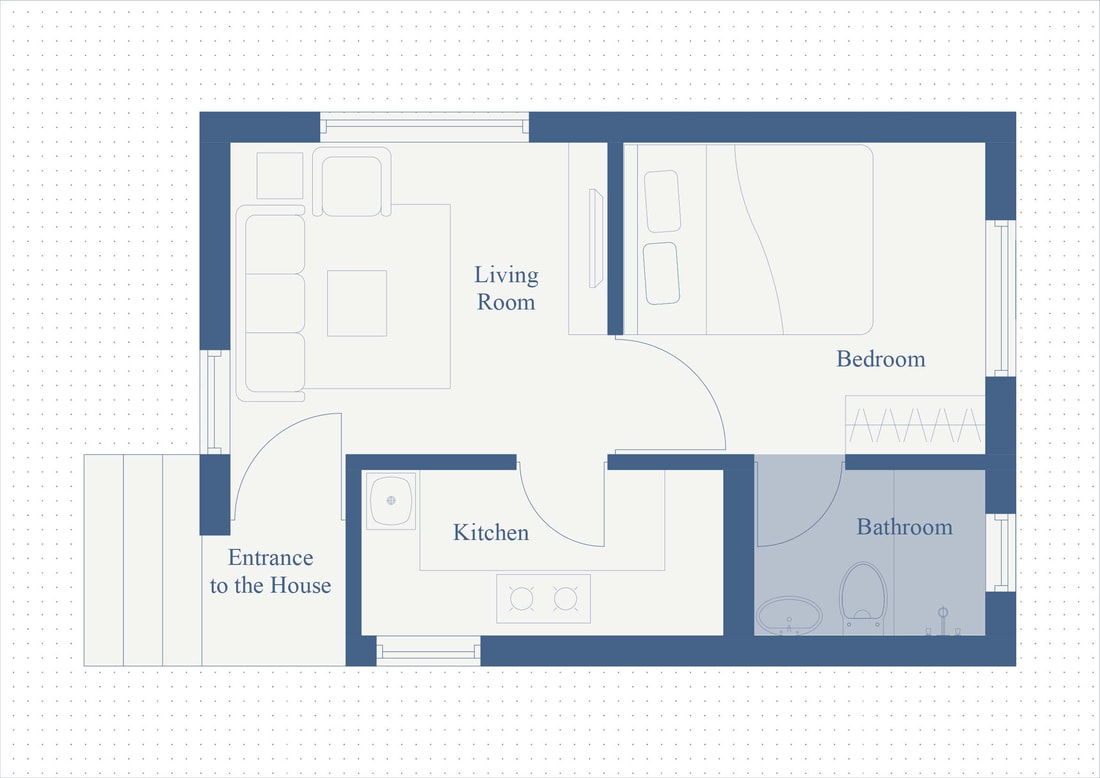
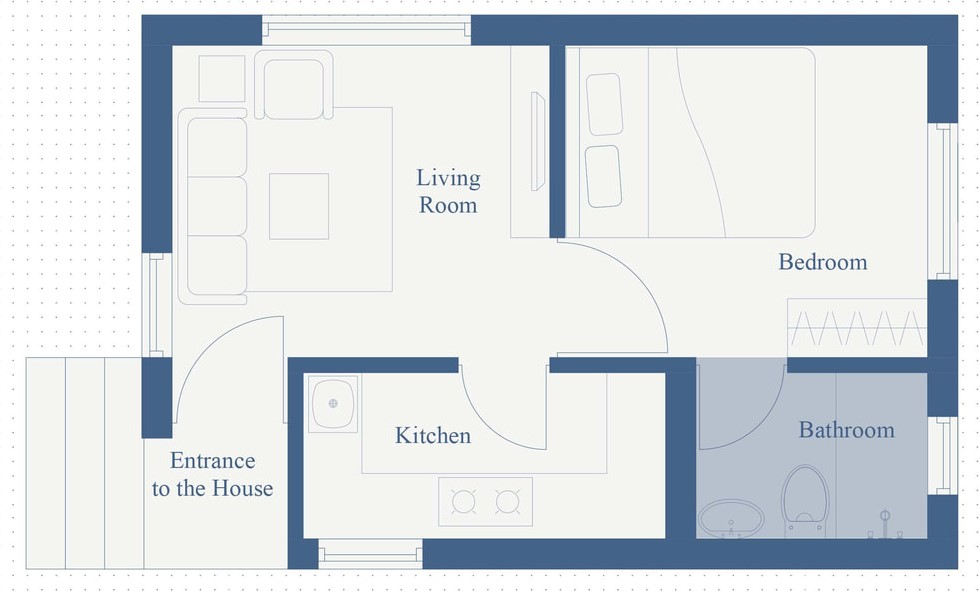
Contact page complete

diff --git a/myworld/miniproject/PowerSmart/templates/contact.html b/myworld/miniproject/PowerSmart/templates/contact.html
@@ -27,7 +27,7 @@
               </li>
               <li class="nav-item card userCard">
                 <a class="nav-link" href="#">
-                  <img class="card-img-top" src="{% static 'assets/user.png' %}" alt="USER">
+                  <img class="card-img-top" src="{% static 'assets/user.jpg' %}" alt="USER">
                   <div class="card-body">
                     <h4 class="card-title">{{fname}} {{lname}}</h4>
                   </div>
@@ -49,7 +49,7 @@
                 <a class="nav-link" href="#"><i class="bi bi-info-lg"></i>About Us</a>
               </li>
               <li class="nav-item sys_menu">
-                <a class="nav-link" href="{% url 'app' %}"><i class="bi bi-telephone"></i>Contact Us</a>
+                <a class="nav-link" href="{% url 'contact' %}"><i class="bi bi-telephone"></i>Contact Us</a>
               </li>
             </ul>
           </span>
@@ -58,50 +58,25 @@
   <div class="maincon">
     <h1 class="heading">CONTACT US </h1>
     <p class="desc">Contact our team via an E-mail  or call  for inquiries or doubts. We value your feedbacks and inquiries.</p>
-    <img src="location.png" class="locimg" />
-    <p class="desc">ABC street, Houstan City</p>
-    <img src="mailimg.png" class="locimg"/>
-    <p class="desc">abcdefghi@gmail.com</p>
-    <img src="phoneimg.jpg" class="locimg"/>
-    <p class="desc">12345-6789</p>
-    <img src="instaimg.png" class="icon"/>
-    <p></p>
-    <img src="whatsapp.png" class="locimg"/>
-    <p></p>
-    <img src="facebook.png" class="locimg"/>
+    
+    <div class="info">
+    <i class="bi bi-geo-alt"></i>
+    <p>1234 Main Street, <br>
+      Cityville, State <br>
+      Country - 12345</p>
+    <i class="bi bi-envelope" ></i> <br>
+    <a href="mailto:contact@powersmart.com" >contact@powersmart.com</a> <br>
+    <i class="bi bi-telephone"></i> <br>
+    <p>+1 (555) 123-4567</p>
   </div>
+
+    <i class="bi bi-facebook media-rel"></i>
+    <i class="bi bi-twitter media-rel"></i>
+    <i class="bi bi-instagram media-rel"></i>
+    <i class="bi bi-linkedin media-rel"></i>
+  
+  </>
   </div>
-<!--
-  <section class="main_content">
-    <span>
-
-      <div class="main_head">
-        <div>Energy Dashboard</div>
-        <div class="side_tag">
-          <span>
-              <div class="btn-group">
-                <button type="button" class="btn btn-primary dropdown-toggle" data-bs-toggle="dropdown">Previous Days</button>
-                <div class="dropdown-menu">
-                  <a class="dropdown-item" href="#">Yesterday</a>
-                  <a class="dropdown-item" href="#">Last Week</a>
-                  <a class="dropdown-item" href="#">Last Month</a>
-                </div>
-              </div>
-              <button type="button" class="btn btn-primary"><i class="bi bi-gift"></i>Notifications</button>
-          </span>
-        </div>
-      </div>
-
-      <div class="data_graph">
-        <div class="graph_head">
-          <h6>Cost: </h6>
-          <span>This Month</span>
-        </div>
-      </div>
-
-    </span>
-  </section>
-  -->
 
   </body>
 </html>

diff --git a/myworld/miniproject/PowerSmart/templates/appliances.html b/myworld/miniproject/PowerSmart/templates/appliances.html
@@ -25,9 +25,9 @@
               <img class="navbar-brand" src="{% static 'assets/logo.png' %}" alt="LOGO">
             </a>
           </li>
-          <li class="nav-item card">
+          <li class="nav-item card userCard">
             <a class="nav-link" href="#">
-              <img class="card-img-top" src="{% static 'assets/user.png' %}" alt="USER">
+              <img class="card-img-top" src="{% static 'assets/user.jpg' %}" alt="USER">
               <div class="card-body">
                 <h4 class="card-title">{{fname}} {{lname}}</h4>
               </div>
@@ -49,7 +49,7 @@
             <a class="nav-link" href="#"><i class="bi bi-info-lg"></i>About Us</a>
           </li>
           <li class="nav-item sys_menu">
-            <a class="nav-link" href="{% url 'app' %}"><i class="bi bi-telephone"></i>Contact Us</a>
+            <a class="nav-link" href="{% url 'contact' %}"><i class="bi bi-telephone"></i>Contact Us</a>
           </li>
         </ul>
       </span>

diff --git a/myworld/miniproject/PowerSmart/templates/home.html b/myworld/miniproject/PowerSmart/templates/home.html
@@ -27,7 +27,7 @@
           </li>
           <li class="nav-item card userCard">
             <a class="nav-link" href="#">
-              <img class="card-img-top" src="{% static 'assets/user.png' %}" alt="USER">
+              <img class="card-img-top" src="{% static 'assets/user.jpg' %}" alt="USER">
               <div class="card-body">
                 <h4 class="card-title">{{fname}} {{lname}}</h4>
               </div>
@@ -49,7 +49,7 @@
             <a class="nav-link" href="#"><i class="bi bi-info-lg"></i>About Us</a>
           </li>
           <li class="nav-item sys_menu">
-            <a class="nav-link" href="{% url 'app' %}"><i class="bi bi-telephone"></i>Contact Us</a>
+            <a class="nav-link" href="{% url 'contact' %}"><i class="bi bi-telephone"></i>Contact Us</a>
           </li>
         </ul>
       </span>

diff --git a/myworld/miniproject/PowerSmart/templates/room.html b/myworld/miniproject/PowerSmart/templates/room.html
@@ -27,7 +27,7 @@
           </li>
           <li class="nav-item card userCard">
             <a class="nav-link" href="#">
-              <img class="card-img-top" src="{% static 'assets/user.png' %}" alt="USER">
+              <img class="card-img-top" src="{% static 'assets/user.jpg' %}" alt="USER">
               <div class="card-body">
                 <h4 class="card-title">{{fname}} {{lname}}</h4>
               </div>
@@ -60,7 +60,7 @@
     <div class="cardiapp">Room 2</div>
 </div>
   <div class="main-content2">
-    <img class="roomimage" src="roomimg2.jpg" alt="roomplan"/>
+    <img class="roomimage" src="{% static 'assets/roomimg2.jpg' %}" alt="roomplan"/>
   </div>
 </div>
 <!--

diff --git a/myworld/miniproject/PowerSmart/static/pagestyle.css b/myworld/miniproject/PowerSmart/static/pagestyle.css
@@ -14,6 +14,18 @@ body {
   box-sizing: border-box;
 }
 
+.userCard {
+  margin-bottom: 10px;
+}
+
+h4 {
+  text-align: center;
+}
+
+.bi {
+  margin: 5px;
+}
+
 .navbar-brand {
   margin-left: 20px;
 }
@@ -92,4 +104,17 @@ body {
   margin-top: 30px;
   height: 35px;
   width: 35px;
+}
+
+.media-rel {
+  font-size: 40px; 
+  margin: 50px 10px;
+}
+
+.info i {
+  font-size: 20px;
+}
+
+.info a {
+  padding-bottom: 50px;
 }
